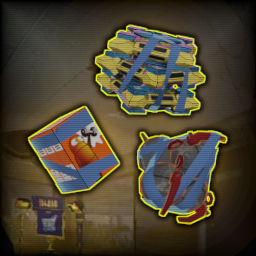
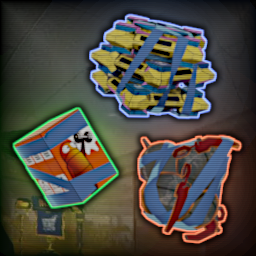
fix a bunch of bugs introduced in 1.4.0

diff --git a/ItemBundles Code/Scripts/ItemLateImpulse.cs b/ItemBundles Code/Scripts/ItemLateImpulse.cs
@@ -10,6 +10,11 @@ namespace ItemBundles
         PhysGrabObject physGrabObject;
         Rigidbody rb;
 
+        Vector3 direction = Vector3.zero;
+        float forceMin = 1f;
+        float forceMax = 5f;
+        float forceMult = 1f;
+
         public void Start()
         {
             physGrabObject = GetComponent<PhysGrabObject>();
@@ -24,9 +29,9 @@ namespace ItemBundles
             {
                 yield return null;
             }
-            Vector3 vector = Random.insideUnitSphere;
-            rb.AddForce(vector * Random.Range(1, 5), ForceMode.Impulse);
-            rb.AddTorque(Random.insideUnitSphere * Random.Range(1f, 5f), ForceMode.Impulse);
+            Vector3 vector = direction == Vector3.zero ? Random.insideUnitSphere : direction;
+            rb.AddForce(vector * forceMult * Random.Range(forceMin, forceMax), ForceMode.Impulse);
+            rb.AddTorque(Random.insideUnitSphere * forceMult * Random.Range(forceMin, forceMax), ForceMode.Impulse);
         }
     }
 }

diff --git a/ItemBundles Code/Scripts/ItemConsumableBundle.cs b/ItemBundles Code/Scripts/ItemConsumableBundle.cs
@@ -70,7 +70,6 @@ namespace ItemBundles
                     offsetMult = 0f; 
                     break;
             }
-            float velMult = 2.5f;
 
             if (!SemiFunc.IsMultiplayer())
             {
@@ -84,7 +83,7 @@ namespace ItemBundles
                     }
 
                     var obj = Object.Instantiate(itemPrefab, base.transform.position + randomSpawnOffset, Quaternion.identity);
-                    obj.GetComponent<Rigidbody>().AddForce(randomSpawnOffset * velMult, ForceMode.Impulse);
+                    obj.AddComponent<ItemLateImpulse>();
                     StatsManager.instance.ItemPurchase(obj.GetComponent<ItemAttributes>().item.itemAssetName);
                 }
             }
@@ -100,14 +99,10 @@ namespace ItemBundles
                     }
 
                     GameObject obj = PhotonNetwork.Instantiate("Items/" + itemPrefab.name, base.transform.position + randomSpawnOffset, Quaternion.identity, 0);
-                    obj.GetComponent<Rigidbody>().AddForce(randomSpawnOffset * velMult, ForceMode.Impulse);
+                    obj.AddComponent<ItemLateImpulse>();
                     StatsManager.instance.ItemPurchase(obj.GetComponent<ItemAttributes>().item.itemAssetName);
                 }
             }
-
-            //particleScriptExplosion.Spawn(base.transform.position, 0.8f, 50, 100, 4f, onlyParticleEffect: false, disableSound: true);
-            //soundExplosion.Play(base.transform.position);
-            //soundExplosionGlobal.Play(base.transform.position);
         }
     }
 }

diff --git a/ItemBundles Code/ItemBundles.cs b/ItemBundles Code/ItemBundles.cs
@@ -9,7 +9,7 @@ using UnityEngine;
 
 namespace ItemBundles
 {
-    [BepInPlugin("SeroRonin.ItemBundles", "ItemBundles", "1.4.0")]
+    [BepInPlugin("SeroRonin.ItemBundles", "ItemBundles", "1.4.1")]
     [BepInDependency(REPOLib.MyPluginInfo.PLUGIN_GUID, BepInDependency.DependencyFlags.HardDependency)]
     [BepInDependency("nickklmao.repoconfig", BepInDependency.DependencyFlags.HardDependency)]
     [BepInDependency("bulletbot.moreupgrades", BepInDependency.DependencyFlags.SoftDependency)]

diff --git a/ItemBundles Code/BundlePatches.cs b/ItemBundles Code/BundlePatches.cs
@@ -36,6 +36,7 @@ namespace ItemBundles
 
         /// <summary>
         /// Patch that prevents generated 'prefabs' from spamming NRE errors in the console
+        /// For Future/better patching: Caused by missed dict entry in StatsManager because it runs before the dicts get populated
         /// </summary>
         /// <param name="__instance"></param>
         /// <returns></returns>